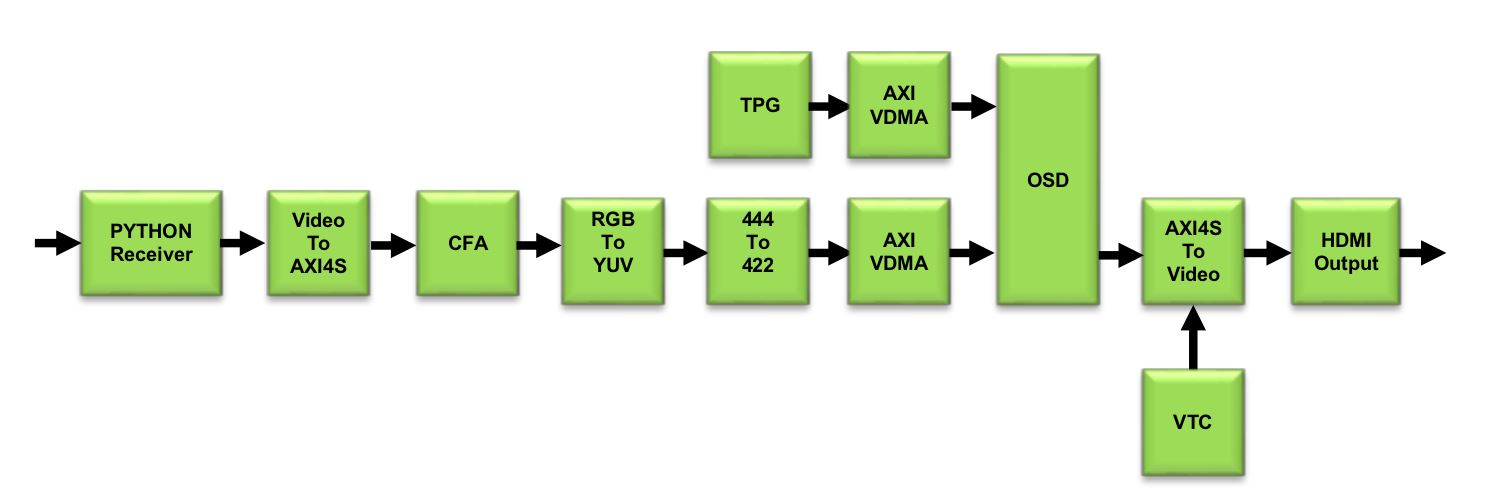
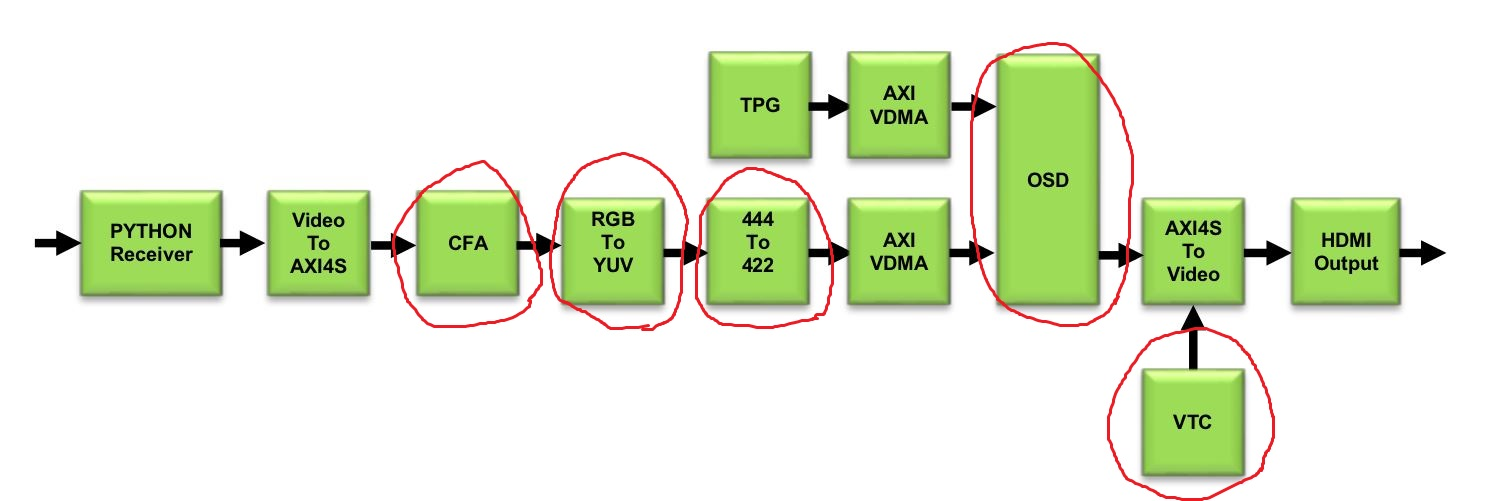
readme

diff --git a/fpga/FrameBufferRefDesign/readme.md b/fpga/FrameBufferRefDesign/readme.md
@@ -1,7 +1,21 @@
-Frame Buffer Reference Design 
+# Frame Buffer Reference Design 
+## works with Python-1300-C Camera Module
 
-List of needed IPs:
+List of IPs, which are4 used in this project:
 ![1]
 
 
+The IPs, which require license:
+1. [Color Filter Array Interpolation (CFA) v7.0][4]
+2. [Chroma Resampler v4.0][3]
+3. [Video On Screen Display (OSD) v6.0][2]
+4. [RGB to YcrCb Color-Space Converter v7.1][5]
+5. [Video Timing Controller (VTC) v6.1][6]
+
+
 [1]: ips.JPG
+[2]: http://www.xilinx.com/support/documentation/ip_documentation/v_osd/v6_0/pg010_v_osd.pdf
+[3]: http://www.xilinx.com/support/documentation/ip_documentation/v_cresample/v4_0/pg012_v_cresample.pdf
+[4]: http://www.xilinx.com/support/documentation/ip_documentation/v_cfa/v7_0/pg002_v_cfa.pdf
+[5]: http://www.xilinx.com/support/documentation/ip_documentation/v_rgb2ycrcb/v7_1/pg013_v_rgb2ycrcb.pdf
+[6]: http://www.xilinx.com/support/documentation/ip_documentation/v_tc/v6_1/pg016_v_tc.pdf
